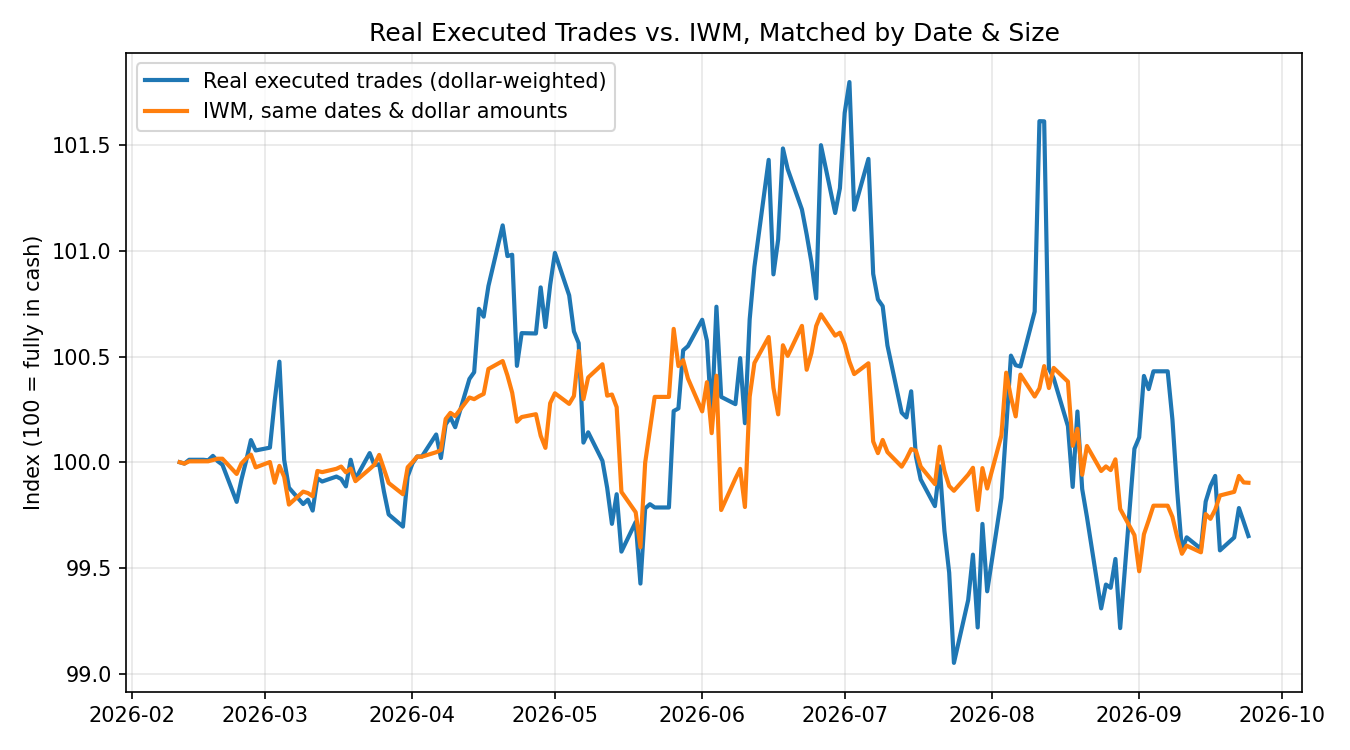
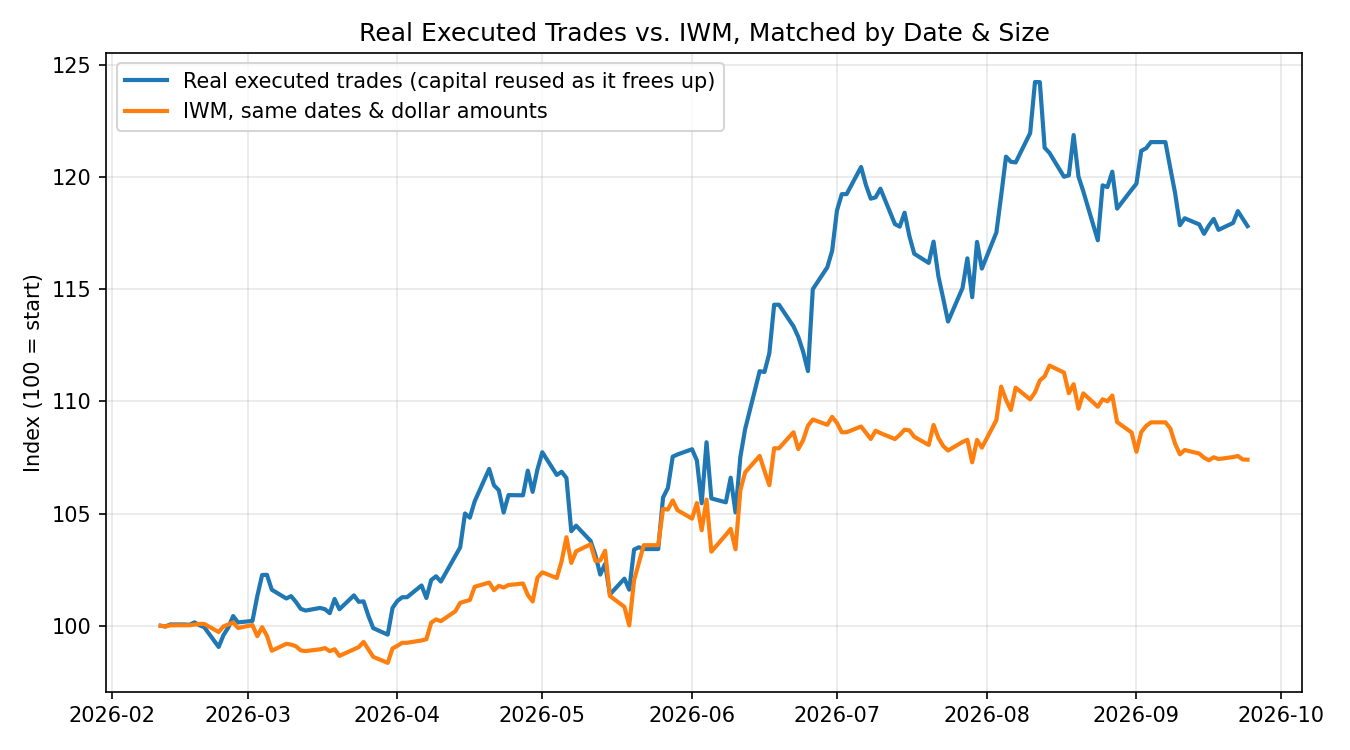
Fix equity curves to actually compound realized gains/losses
Found the real cause of "the return is still like 2%": the mark-to-
market formula returned only a closed position's ORIGINAL notional to
the reusable cash pool on exit, discarding every realized gain or loss
from the running total. The chart's ending value was therefore
mathematically forced to equal the simple per-trade average return,
never the real cumulative effect of reusing the same capital across
many trades - which is what actually produces an account's real growth.

Fixed with a proper event-driven simulation: closing a position now
credits its actual ending value (gain/loss included) back to cash, so
it compounds into the next trade. Also sized the capital base to the
peak amount ever concurrently committed (~$19.2k for the real trades,
remarkably close to the real account's actual size) rather than the
sum of every trade ever made, which implicitly assumed capital was
never reused.

Real trades: cumulative return now +17.8% vs +7.4% for matched IWM
(was +3.7%/+1.5% per-trade average). Raw signals: +12.3% vs +3.1%
(was +3.5%/+0.9%). Both per-trade averages are kept in the docs
alongside the new cumulative figures, since they answer different
questions.

diff --git a/analysis/compute_performance.py b/analysis/compute_performance.py
@@ -146,7 +146,7 @@ def compute_signal_returns(df: pd.DataFrame, price_hist: dict, iwm: pd.Series, a
     return pd.DataFrame(records)
 
 
-def summarize(scored: pd.DataFrame) -> pd.DataFrame:
+def summarize(scored: pd.DataFrame, cumulative_return: float = None, cumulative_iwm_return: float = None) -> pd.DataFrame:
     overall = {
         "period": "overall",
         "signal_count": len(scored),
@@ -155,6 +155,8 @@ def summarize(scored: pd.DataFrame) -> pd.DataFrame:
         "median_return_30d": scored["return_30d"].median(),
         "mean_iwm_return_30d": scored["iwm_return_30d"].mean(),
         "mean_alpha_30d": scored["alpha_30d"].mean(),
+        "cumulative_return": cumulative_return,
+        "cumulative_iwm_return": cumulative_iwm_return,
     }
 
     monthly = scored.copy()
@@ -174,45 +176,84 @@ def summarize(scored: pd.DataFrame) -> pd.DataFrame:
     return pd.concat([pd.DataFrame([overall]), monthly_summary], ignore_index=True)
 
 
+def peak_concurrent_notional(legs: list[tuple], date_index: pd.DatetimeIndex) -> float:
+    """
+    The smallest capital base that could actually run this exact sequence of
+    trades at once, at any point in time - i.e. real, reused capital, not a
+    pool large enough to take every trade simultaneously without ever
+    freeing any of it up.
+    """
+    committed = pd.Series(0.0, index=date_index)
+    for entry_date, exit_date, notional, _, _ in legs:
+        window = date_index[(date_index >= entry_date) & (date_index <= exit_date)]
+        committed.loc[window] += notional
+    return float(committed.max())
+
+
 def build_daily_index(
     legs: list[tuple],  # (entry_date, exit_date, notional, entry_price, price_series)
     total_notional: float,
     date_index: pd.DatetimeIndex,
 ) -> pd.Series:
     """
-    Daily mark-to-market portfolio index, 100 = fully in cash.
-
-    Every leg contributes its own notional slice of a fixed capital base
-    (`total_notional`, sized so every signal could in principle be held at
-    once - never actually all open simultaneously) while it's open, tracking
-    that leg's own daily price path; unallocated capital sits flat as cash.
-    This is a standard day-by-day equity curve, not an average of returns -
-    it doesn't jump the moment a trade is "counted," it moves smoothly as
-    each open position's price actually moves, which is why it doesn't
-    exhibit the small-sample noise of averaging discrete trade outcomes.
+    Daily mark-to-market equity curve, 100 = fully in cash, with real
+    capital reuse: opening a position debits its notional from cash; every
+    open position is marked to market daily; when a position's exit date
+    arrives, its CURRENT mark-to-market value - not its original notional -
+    is credited back to cash, so a realized gain or loss actually changes
+    how much capital is available for the next trade. An earlier version
+    returned only the original notional to cash on exit, which silently
+    discarded every closed trade's P&L from the running total and made the
+    chart converge on the simple average return instead of the real
+    compounding effect of reusing the same capital many times over.
     """
-    invested_value = pd.Series(0.0, index=date_index)
-    committed_notional = pd.Series(0.0, index=date_index)
+    series_cache: dict[int, pd.Series] = {}
 
-    for entry_date, exit_date, notional, entry_price, series in legs:
-        window = date_index[(date_index >= entry_date) & (date_index <= exit_date)]
-        if len(window) == 0 or series is None or entry_price in (None, 0):
-            continue
-        prices = series.reindex(date_index).ffill().reindex(window)
-        leg_value = notional * (prices / entry_price)
-        invested_value.loc[window] += leg_value.fillna(notional)
-        committed_notional.loc[window] += notional
+    def reindexed(series: pd.Series) -> pd.Series:
+        key = id(series)
+        if key not in series_cache:
+            series_cache[key] = series.reindex(date_index).ffill()
+        return series_cache[key]
 
-    portfolio_value = (total_notional - committed_notional) + invested_value
-    return 100 * portfolio_value / total_notional
+    entries_by_date: dict = {}
+    for leg in legs:
+        entries_by_date.setdefault(leg[0], []).append(leg)
+
+    cash = total_notional
+    open_positions = []
+    index_values = []
+    for day in date_index:
+        for entry_date, exit_date, notional, entry_price, series in entries_by_date.get(day, []):
+            cash -= notional
+            open_positions.append(
+                {"notional": notional, "entry_price": entry_price, "series": series, "exit_date": exit_date}
+            )
+
+        day_value = 0.0
+        still_open = []
+        for pos in open_positions:
+            price = None
+            if pos["series"] is not None:
+                rs = reindexed(pos["series"])
+                if day in rs.index:
+                    price = rs.loc[day]
+            value = pos["notional"] * (price / pos["entry_price"]) if (price and pos["entry_price"]) else pos["notional"]
+            if day >= pos["exit_date"]:
+                cash += value
+            else:
+                day_value += value
+                still_open.append(pos)
+        open_positions = still_open
+        index_values.append(100 * (cash + day_value) / total_notional)
+
+    return pd.Series(index_values, index=date_index)
 
 
 def build_chart(scored: pd.DataFrame, price_hist: dict, iwm: pd.Series, out_path: str) -> None:
     """
-    Two lines, both a daily mark-to-market equity curve for a hypothetical
-    account sized to hold every signal at once (never actually fully
-    deployed - most days most of that capital sits idle as cash), so the
-    only difference between them is which asset each slice of capital is
+    Two lines, both a daily mark-to-market equity curve with capital reused
+    across signals as positions close (see build_daily_index), so the only
+    difference between them is which asset each slice of capital is
     invested in while a signal is open:
       - "Live signals": each signal's own ticker, its actual daily price
         path from entry to a 30-day exit.
@@ -221,6 +262,12 @@ def build_chart(scored: pd.DataFrame, price_hist: dict, iwm: pd.Series, out_path
         buy-and-hold, which would mix in market-timing luck from a single
         start date rather than isolating "same money, same timing, different
         asset."
+
+    The capital base is sized to the peak number of signals ever open at
+    once (equal-weighted, so "notional" is just a count here) - the
+    smallest base that could have actually run this exact sequence - not
+    the total number of signals ever emitted, which would imply capital is
+    never reused and understate the real compounding effect.
     """
     legs = [
         (row.entry_date, row.entry_date + timedelta(days=FORWARD_DAYS), 1.0, row.entry_price, price_hist.get(row.ticker))
@@ -230,24 +277,26 @@ def build_chart(scored: pd.DataFrame, price_hist: dict, iwm: pd.Series, out_path
         (row.entry_date, row.entry_date + timedelta(days=FORWARD_DAYS), 1.0, row.iwm_entry_price, iwm)
         for row in scored.itertuples()
     ]
-    total_notional = float(len(scored))
 
     start = scored["entry_date"].min()
     end = (scored["entry_date"] + timedelta(days=FORWARD_DAYS)).max()
     date_index = pd.bdate_range(start, end)
+    total_notional = peak_concurrent_notional(legs, date_index)
 
     signal_index = build_daily_index(legs, total_notional, date_index)
     iwm_index = build_daily_index(iwm_legs, total_notional, date_index)
 
     fig, ax = plt.subplots(figsize=(9, 5))
-    ax.plot(date_index, signal_index, label="Live signals (equal-weight)", linewidth=2)
+    ax.plot(date_index, signal_index, label="Live signals (capital reused as it frees up)", linewidth=2)
     ax.plot(date_index, iwm_index, label="IWM at the same entry dates", linewidth=2)
     ax.set_title("Live Form 4 Signal Performance vs. IWM, Matched by Entry Date")
-    ax.set_ylabel("Index (100 = fully in cash)")
+    ax.set_ylabel("Index (100 = start)")
     ax.legend()
     ax.grid(alpha=0.3)
     fig.tight_layout()
     fig.savefig(out_path, dpi=150)
+
+    return signal_index.iloc[-1] / 100 - 1, iwm_index.iloc[-1] / 100 - 1
 
 
 def main():
@@ -279,12 +328,13 @@ def main():
     print(f"{len(df)} total BUY signals, {len(scored)} scored (30d window elapsed + price data available)")
     print(results["status"].value_counts())
 
-    summary = summarize(scored)
+    cumulative_return, cumulative_iwm_return = build_chart(scored, price_hist, iwm_hist, args.out_chart)
+    print(f"Wrote {args.out_chart}")
+    print(f"Cumulative return (capital reused): {cumulative_return:.1%} vs IWM {cumulative_iwm_return:.1%}")
+
+    summary = summarize(scored, cumulative_return, cumulative_iwm_return)
     summary.to_csv(args.out_stats, index=False)
     print(f"Wrote {args.out_stats}")
-
-    build_chart(scored, price_hist, iwm_hist, args.out_chart)
-    print(f"Wrote {args.out_chart}")
 
 
 if __name__ == "__main__":

diff --git a/docs/performance.md b/docs/performance.md
@@ -24,27 +24,35 @@ this writing aren't included, since they don't have a real exit yet.
 | Round trips completed | **116** (out of 636 raw signals emitted — most signals never become a trade; see below) |
 | Unique tickers traded | 92 |
 | Win rate vs. IWM (same dates) | **57.8%** |
-| Dollar-weighted mean return | **+3.7%** |
-| Dollar-weighted mean IWM return (same dates, same dollar amounts) | +1.5% |
-| Dollar-weighted mean alpha | **+2.3pp** |
+| Cumulative return, capital reused across all 116 trades | **+17.8%** |
+| Same, for IWM at the same dates & sizes | +7.4% |
+| Dollar-weighted mean return *per trade* | +3.7% |
+| Dollar-weighted mean IWM return *per trade* (same dates, same amounts) | +1.5% |
 
-"Dollar-weighted" means a $5,000 trade counts five times as much toward the
-average as a $1,000 trade — matching how the results actually add up in a
-real account, rather than treating every trade as equal-size. The IWM side of
-the comparison uses the *same* dollar amount and the *same* entry/exit dates
-as the real trade it's matched against, so the only variable that differs is
-which asset was bought.
+Two different, both-honest numbers: the **cumulative** figure reflects that
+the same capital gets reused as positions close and new ones open — 116
+times across 92 tickers over ~7 months — so it's the closer match to "how
+much did this actually add up to." The **per-trade average** answers a
+narrower question (was the typical trade good?) and is naturally smaller,
+since it doesn't give credit for capital being reused many times over. The
+IWM comparison uses the *same* dollar amount and the *same* entry/exit dates
+as the real trade it's matched against either way, so the only variable that
+differs is which asset was bought.
 
 ![Real trades vs IWM](../assets/real_trades_chart.png)
 
 Both lines are a genuine day-by-day equity curve, not an average of returns:
-a hypothetical account sized to hold every trade at once (in practice, most
-of that capital sits idle as cash most days, since positions don't all
-overlap) marks each open position to market daily using its real price path,
-whether that position is in the real traded stock or, on the second line,
-IWM instead — same entry date, same exit date, same dollar amount either
-way. Both necessarily start at exactly 100 (before the first trade, the
-whole account is cash), and move smoothly from there.
+a capital pool sized to the peak amount ever committed at once (the smallest
+base that could actually run this trade sequence) opens a position by
+debiting its cost, marks every open position to market daily using its real
+price path, and — this is the part that makes it cumulative — credits a
+closed position's *actual ending value*, gain or loss included, back to cash
+so it's available to fund the next trade. An earlier version of this chart
+returned only a closed trade's original cost to cash, which silently
+discarded every realized gain from the running total and made the chart
+converge on the per-trade average instead of the real compounding effect.
+Both lines necessarily start at exactly 100 (before the first trade, the
+whole pool is cash) and move smoothly from there.
 
 Only percentage returns are published here. No dollar amounts, account
 balances, or individual trade records (tickers, dates, position sizes) are
@@ -62,49 +70,47 @@ declines an order. Most emitted signals don't survive all of that — which is
 exactly why the "raw signal quality" numbers below shouldn't be read as "what
 the account did."
 
-### Why "+3.7% average per trade" looks smaller than the account's actual gain
+### How this relates to the account's overall gain
 
 The account runs two strategies (see [architecture.md](architecture.md)):
 this one, and an unrelated second strategy trading a completely different
 universe of tickers. Comparing realized profit between the two, **this
 strategy accounts for roughly 86% of the account's total realized trading
 profit** over the same period — it's the dominant driver, not a minor
-contributor.
-
-That's not in tension with a modest "+3.7% average per trade" — they're
-different units. The account's capital gets *reused*: the same dollars close
-one 30-day position and open another, over and over, 116 times across 92
-tickers over ~7 months. A modest edge repeated that many times compounds into
-a real cumulative effect on the account far larger than any single trade's
-average return would suggest. "Average return per trade" and "total realized
-contribution to the account" are both honest numbers — they just answer
-different questions, and only the second one is comparable to "the account is
-up X% and most of that is this strategy."
+contributor, which the +17.8% cumulative figure above is now consistent
+with (the two won't match exactly — this repo's reconstruction is one
+strategy in isolation with its own capital-reuse assumption, not a
+full account replica, and it excludes the handful of still-open positions'
+unrealized P&L).
 
 ## Raw signal quality (for context)
 
 **What this measures, precisely:** the raw signal feed itself, before
 execution. It's "take every emitted signal, weight them equally, hold each
-for exactly 30 days, don't compound" — a diagnostic of signal quality, not a
-reconstruction of any real trading activity.
+for exactly 30 days" — a diagnostic of signal quality, not a reconstruction
+of any real trading activity.
 
 | Metric | Value |
 |---|---|
 | Live signal history | 2026-02-17 – present |
 | Total signals emitted | 636 |
 | Signals scored (30-day window elapsed) | 569 |
+| Peak signals open at once | 163 |
 | Win rate vs. IWM (30d) | 57.6% |
-| Mean 30-day return per signal | +3.5% |
-| Mean IWM 30-day return over the same windows | +0.9% |
-| Mean alpha vs. IWM per signal | +2.6pp |
+| Cumulative return, capital reused across all scored signals | +12.3% |
+| Same, for IWM at the same dates | +3.1% |
+| Mean return *per signal* | +3.5% |
+| Mean IWM return *per signal* (same windows) | +0.9% |
 
 (These figures shift slightly each time the analysis is re-run, since more
 signals cross the 30-day scoring threshold every day — see
-[`analysis/summary_stats.csv`](../analysis/summary_stats.csv).)
+[`analysis/summary_stats.csv`](../analysis/summary_stats.csv), which has the
+per-signal figures; the cumulative figures are only in this doc and the
+chart.)
 
 ![Live signals vs IWM](../assets/performance_chart.png)
 
-Same day-by-day mark-to-market method as the real-trades chart above, but
+Same day-by-day, capital-reuse method as the real-trades chart above, but
 equal-weighted rather than dollar-weighted (there's no real position size to
 weight by for a signal that was never traded), and every signal held for a
 fixed 30 days rather than a real, variable exit date. The chart stops about a

diff --git a/README.md b/README.md
@@ -72,14 +72,15 @@ look-ahead bug that was caught and fixed.
 ## Headline result
 
 Since launch (2026-02-17), **116 real executed trades** (reconstructed from
-actual brokerage fills — real entry/exit dates, real position sizes) have
-beaten IWM, bought at those exact same times and sizes, **57.8% of the time**,
-with a dollar-weighted mean return of **+3.7%** vs. **+1.5%** for the matched
-IWM trades — a **+2.3 percentage point** edge. Those 116 trades came from 636
-raw signals emitted by the live service; most signals never become a real
-trade once real execution constraints (cash, exposure limits, dedup) are
-applied. See [`docs/performance.md`](docs/performance.md) for the full
-writeup, the raw-signal-only comparison, methodology, and limitations.
+actual brokerage fills — real entry/exit dates, real position sizes, capital
+reused as positions close) have returned **+17.8%** cumulatively, beating a
+matched IWM comparison's **+7.4%** over the same trades' exact dates and
+sizes — and beat IWM outright on **57.8%** of individual trades. Those 116
+trades came from 636 raw signals emitted by the live service; most signals
+never become a real trade once real execution constraints (cash, exposure
+limits, dedup) are applied. See [`docs/performance.md`](docs/performance.md)
+for the full writeup, the raw-signal-only comparison, methodology, and
+limitations.
 
 ## Read more
 
